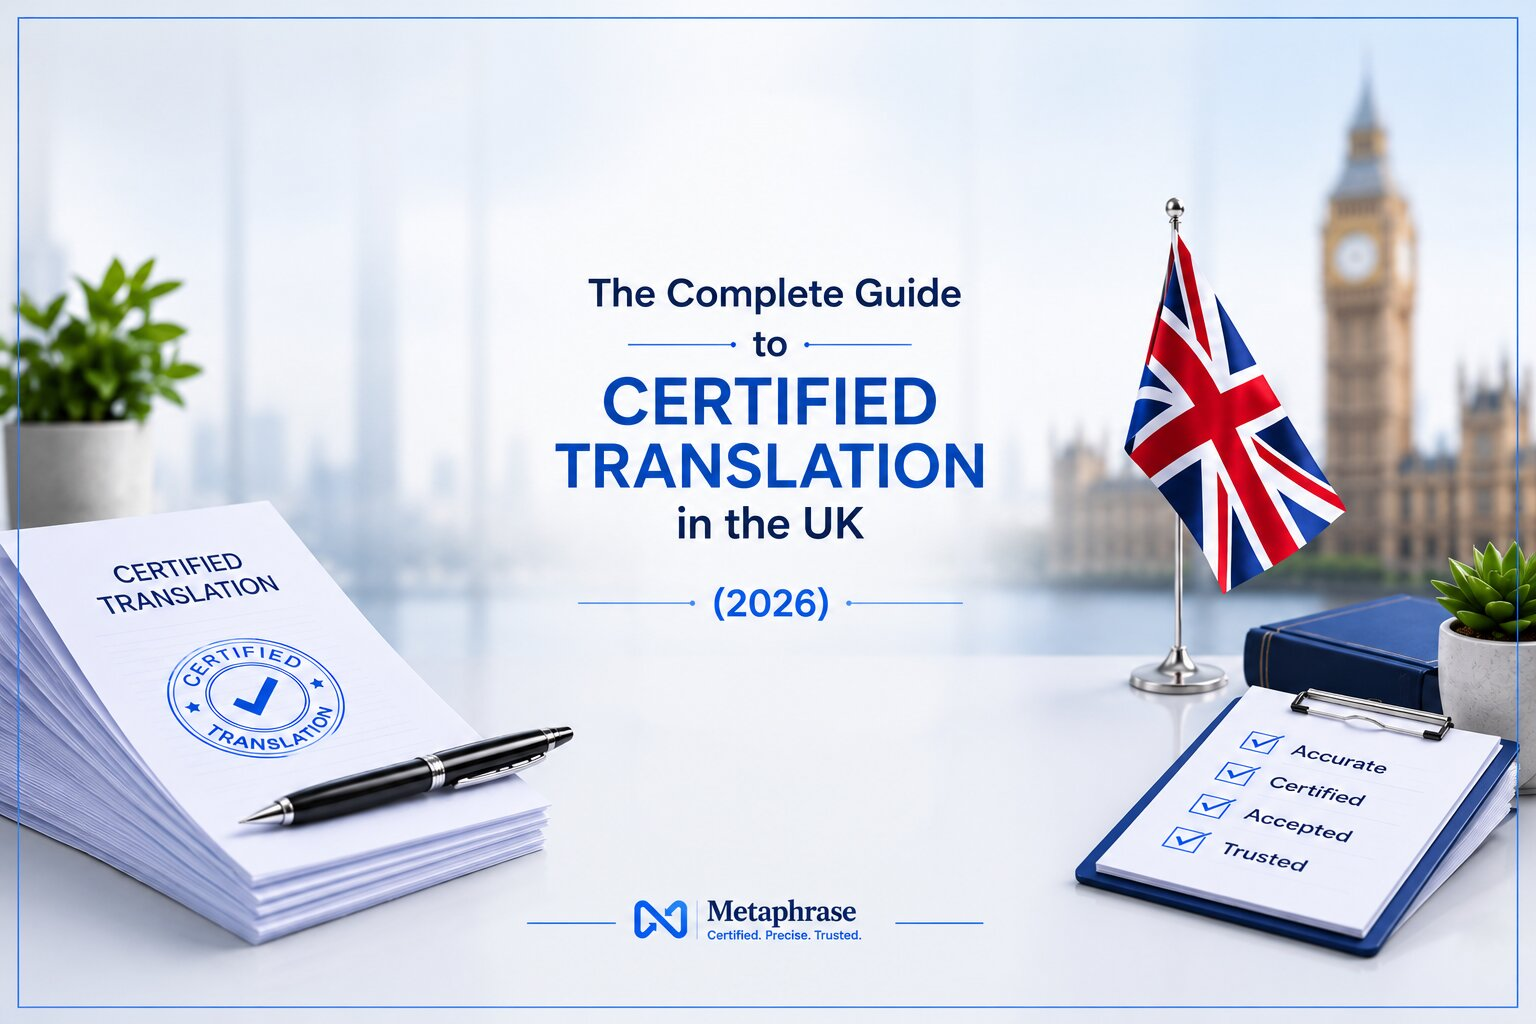
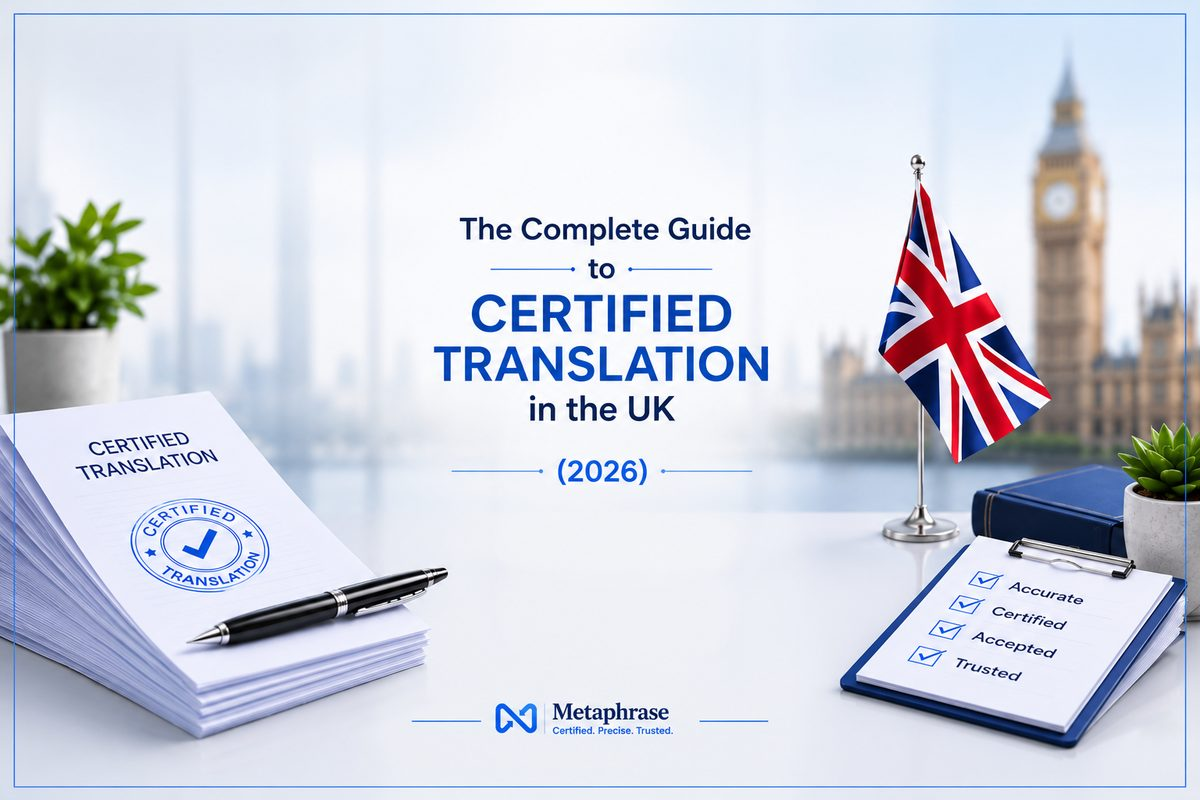
Replace Certified Translation Guide featured image site-wide

diff --git a/blog/certified-translation-guide/index.html b/blog/certified-translation-guide/index.html
@@ -462,7 +462,7 @@
   "url": "https://metaphrase.uk",
   "telephone": "[phone redacted]",
   "email": "[email redacted]",
-  "image": "https://metaphrase.uk/assets/img/og-social.png",
+  "image": "https://metaphrase.uk/assets/img/blog/certified-translation-guide.jpg",
   "logo": "https://metaphrase.uk/assets/img/og-social.png",
   "priceRange": "££",
   "currenciesAccepted": "GBP",

diff --git a/blog/choosing-certified-translator/index.html b/blog/choosing-certified-translator/index.html
@@ -770,7 +770,7 @@
     <div class="related-posts-grid">
 
       <a href="/blog/certified-translation-guide/" class="related-post-card">
-        <img src="https://images.unsplash.com/photo-1450101499163-c8848c66ca85?w=600&h=360&fit=crop&q=80" alt="Certified translation guide UK" loading="lazy">
+        <img src="/assets/img/blog/certified-translation-guide.jpg" alt="Certified translation guide UK" loading="lazy">
         <div class="related-post-body">
           <div class="related-post-tag">Certified Translation</div>
           <h4>The Complete Guide to Certified Translation in the UK</h4>

diff --git a/blog/index.html b/blog/index.html
@@ -1237,7 +1237,7 @@
         <!-- Card 11: Certified Translation Guide — 15 Jan 2026 -->
         <article class="premium-blog-card" data-category="certified-translation" data-title="The Complete Guide to Certified Translation in the UK (2026)" data-excerpt="Everything from Home Office requirements to CIOL certification — the definitive UK guide.">
           <div class="blog-card-image">
-            <img loading="lazy" decoding="async" src="https://images.unsplash.com/photo-1450101499163-c8848c66ca85?w=600&h=340&fit=crop&q=80" alt="Certified Translation Guide">
+            <img loading="lazy" decoding="async" src="/assets/img/blog/certified-translation-guide.jpg" alt="Certified Translation Guide">
           </div>
           <div class="blog-card-content">
             <div class="blog-card-meta">

diff --git a/blog/logo-meaning/index.html b/blog/logo-meaning/index.html
@@ -912,7 +912,7 @@
     <div class="related-posts-grid">
 
       <a href="/blog/certified-translation-guide/" class="related-post-card">
-        <img src="https://images.unsplash.com/photo-1450101499163-c8848c66ca85?w=600&h=360&fit=crop&q=80" alt="Certified Translation Guide" loading="lazy">
+        <img src="/assets/img/blog/certified-translation-guide.jpg" alt="Certified Translation Guide" loading="lazy">
         <div class="related-post-body">
           <div class="related-post-tag">Certified Translation</div>
           <h4>The Complete Guide to Certified Translation in the UK (2026)</h4>

diff --git a/blog/somali-translation-immigration/index.html b/blog/somali-translation-immigration/index.html
@@ -752,7 +752,7 @@
       </a>
 
       <a href="/blog/certified-translation-guide/" class="related-post-card">
-        <img src="https://images.unsplash.com/photo-1450101499163-c8848c66ca85?w=600&h=360&fit=crop&q=80" alt="Certified translation guide" loading="lazy">
+        <img src="/assets/img/blog/certified-translation-guide.jpg" alt="Certified translation guide" loading="lazy">
         <div class="related-post-body">
           <div class="related-post-tag">Certified Translation</div>
           <h4>The Complete Guide to Certified Translation in the UK</h4>